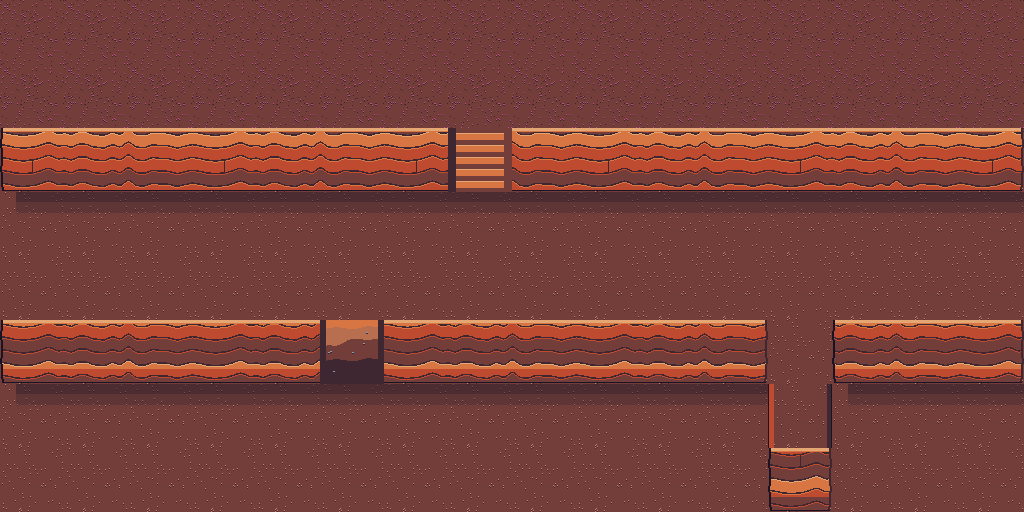
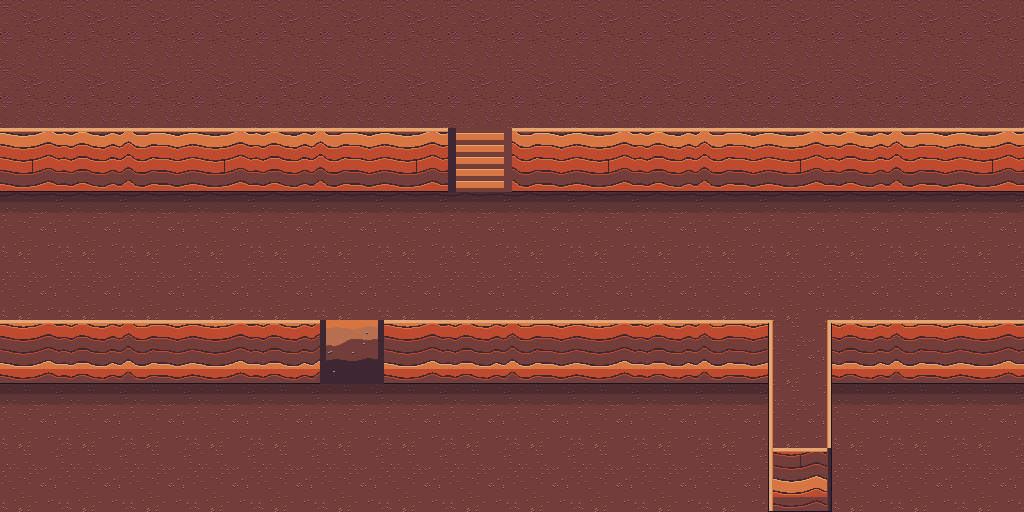
Pareti: raccordi continui tra i gradini (bordo che gira gli angoli, spigoli netti)
- bordo della cima su ogni lato che confina con il basso, anche accanto a una parete
- estremita' delle pareti: continua / rientrante / sporgente, niente pezzi frastagliati
- terreno della cima sotto la parete (niente angoli smussati), ombra al piede degli angoli
- mare a -1: scogliere sulle coste rocciose, spiagge invariate, niente finti gradini nell'entroterra
- cima delle mura a lastre chiare; strade, luoghi, alberi e sottosuolo identici all'approvato

Claude-Session: https://claude.ai/code/session_014ycMSkFAn8ixUvbSfrqtAR

diff --git a/tools/art/forge3d/pareti.py b/tools/art/forge3d/pareti.py
@@ -75,18 +75,20 @@ def _faccia(mat, X, Yf, Hf, S, seed, Yw=None):
     return np.clip(t, 0, n - 1)
 
 
-def tile(mat, k, d, sx=False, dx=False, passaggio=None, col=0, S=64, seed=5, base=None, riga=None):
+def tile(mat, k, d, sx=None, dx=None, passaggio=None, col=0, S=64, seed=5, base=None, riga=None):
     """Una casella di parete RGBA (S x S): riga k (0 = in alto) di una parete alta d caselle.
-    sx/dx: la parete finisce a sinistra/destra. passaggio: None, 'S' (scalini) o 'R' (rampa).
-    base: disegna la base (False se sotto c'e' ancora parete: gradini in diagonale). Default: ultima riga.
-    col: colonna di mondo (sceglie la variante: col % 3)."""
+    sx/dx: com'e' fatta l'estremita' sinistra/destra:
+        None o 'cont' = la parete continua; 'int' = accanto c'e' la cima dell'altopiano (angolo rientrante:
+        il bordo lo disegna la cima); 'est' = angolo sporgente: spigolo netto (contorno + fascia, chiara a
+        sinistra e scura a destra) che continua il bordo laterale dell'altopiano.
+    passaggio: None, 'S' (scalini) o 'R' (rampa). base: contorno in basso (False se sotto c'e' altra parete).
+    col, riga: colonna e riga di mondo (la texture combacia tra caselle vicine)."""
     y, x = np.mgrid[0:S, 0:S]
     X, Yf, Hf = col * S + x, k * S + y, d * S
     ramp = MATERIALI[mat]["ramp"]
     t = _faccia(mat, X, Yf, Hf, S, seed, None if riga is None else riga * S + y)
     pal = np.array([_rgb(c) for c in ramp])
     img = pal[t]
-    alpha = np.full((S, S), 255, np.uint8)
     nz = _campi(mat, S, seed)[0]
     if passaggio == "S":                                       # scalini: alzate scure, pedate chiare, fianchi
         g = S // 5
@@ -100,27 +102,31 @@ def tile(mat, k, d, sx=False, dx=False, passaggio=None, col=0, S=64, seed=5, bas
         for sx_, sy_ in rs.randint(S // 8, S - S // 8, (6, 2)):
             img[sy_, sx_:sx_ + 2] = _rgb("grey"); img[sy_ + 1, sx_:sx_ + 2] = pr[0]
         img[(x < S // 10) | (x >= S - S // 10)] = pr[0]
-    lato = (2 + 4 * nz[:S, 0:1]).astype(int)                    # spigolo frastagliato: si vede il terreno sotto
-    if sx:
-        alpha[x < lato - 2] = 0
-        img[(x >= lato - 2) & (x < lato)] = _rgb("ink")
-    if dx:
-        dentro = x < S - lato
-        img[~dentro] = pal[0]                                  # lato in ombra: luce da sinistra
-        alpha[x >= S - lato + 2] = 0
-    if (k == d - 1 if base is None else base) and passaggio is None:                       # base frastagliata, sassi caduti
-        base = S - 1 - (nz[0:1, :S] * 4).astype(int)
-        alpha[y > base] = 0
-        img[y == base] = _rgb("ink")
+    lw = _spessore(S)
+    if sx == "est":                                            # spigolo sinistro, in luce
+        img[:, 1:lw + 1] = pal[-1]; img[:, lw + 1] = pal[-2]; img[:, 0] = _rgb("ink")
+    if dx == "est":                                            # spigolo destro, in ombra
+        img[:, S - 1 - lw:S - 1] = pal[0]; img[:, S - 2 - lw] = pal[1]; img[:, S - 1] = _rgb("ink")
+    if (k == d - 1 if base is None else base) and passaggio is None:
+        img[S - 1] = _rgb("ink")                               # piede della parete
     out = np.zeros((S, S, 4), np.uint8)
-    out[..., :3] = img; out[..., 3] = alpha
+    out[..., :3] = img; out[..., 3] = 255
     return out
 
 
-def tile_ombra(sx=False, dx=False, S=64):
-    """Ombra a terra sotto la parete: fascia di inchiostro semitrasparente, spostata a destra (luce a sinistra)."""
+def _spessore(S):
+    """Spessore del bordo chiaro (in alto sulle pareti, ai lati della cima): uguale ovunque."""
+    return max(2, S // 21)
+
+
+def tile_ombra(sx=False, dx=False, S=64, angolo=False):
+    """Ombra a terra sotto la parete: fascia di inchiostro semitrasparente, spostata a destra (luce a sinistra).
+    angolo: a destra la parete prosegue una riga piu' in basso (gradino): l'angolo sporgente fa ombra anche
+    nel quarto in alto a destra, dove il terreno della cima smussa l'angolo."""
     y, x = np.mgrid[0:S, 0:S]
     a = np.where(y < S // 6, 110, np.where(y < S // 3, 55, 0))
+    if angolo:
+        a = np.where((S - 1 - x) + y < S * 0.6, 110, a)              # triangolo verso l'angolo in alto a destra
     if sx:
         a = np.where(x < S // 4, 0, a)
     out = np.zeros((S, S, 4), np.uint8)
@@ -128,96 +134,133 @@ def tile_ombra(sx=False, dx=False, S=64):
     return out
 
 
-def facce(alt):
-    """Per ogni casella: (k, d, y del bordo) se e' parete, altrimenti None. alt: array H x W di interi."""
+def _con_materiale(mat, shape):
+    """Vero dove la casella ha un materiale da parete. Senza mat: ovunque."""
+    if mat is None:
+        return np.ones(shape, bool)
+    return np.array([[bool(v) for v in r] for r in mat], bool)
+
+
+def facce(alt, mat=None):
+    """Per ogni casella: (k, d, y del bordo) se e' parete, altrimenti None. alt: array H x W di interi.
+    mat: se c'e', una parete nasce solo sotto una casella con materiale (una spiaggia sul mare, che e' piu'
+    basso di un livello, non diventa scogliera)."""
     alt = np.asarray(alt)
     H, W = alt.shape
+    ok = _con_materiale(mat, alt.shape)
     f = np.full((H, W), None, object)
     for x in range(W):
         for y in range(1, H):
-            d = int(alt[y - 1, x] - alt[y, x])
+            d = int(alt[y - 1, x] - alt[y, x]) if ok[y - 1, x] else 0
             for k in range(max(0, d)):
                 if y + k < H:
                     f[y + k, x] = (k, d, y - 1)
     return f
 
 
-def _vicino(e, y, x):
-    """C'e' parete nella colonna x, nella stessa riga o in quelle accanto? Cosi' un bordo in diagonale
-    diventa una parete a scalini continua invece di blocchetti staccati."""
-    if x < 0 or x >= e.shape[1]:
-        return False
-    return bool(e[max(0, y - 1):y + 2, x].any())
-
-
-def _orli(alt, mat, e, y, x, S, seed):
-    """Caselle alte che NON sono parete: in vista 3/4 un bordo est o ovest non mostra la faccia, solo la
-    cima. Per non vedere pezzi staccati: orlo di roccia sul lato che confina con il basso, e per le mura
-    un camminamento di pietre chiare (altrimenti la cima del muro si confonde con il selciato)."""
+def _cima(alt, mat, e, y, x, S, seed, f=None):
+    """Casella alta che non e' parete: il bordo dell'altopiano. Su ogni lato (sinistra, destra, sopra) che
+    confina con una casella piu' bassa - terreno o parete - disegna contorno + linea chiara, come l'orlo in
+    cima alle pareti: cosi' il bordo gira l'angolo e lega un gradino al successivo. Le mura hanno in piu'
+    il camminamento di pietre chiare su tutta la cima."""
     H, W = alt.shape
     h = alt[y, x]
     m = mat[y][x]
     if h <= 0 or not m:
         return None
-    basso = lambda yy, xx: 0 <= yy < H and 0 <= xx < W and alt[yy, xx] < h and not e[yy, xx]
+    basso = lambda yy, xx: 0 <= yy < H and 0 <= xx < W and alt[yy, xx] < h
     sx, dx, su = basso(y, x - 1), basso(y, x + 1), basso(y - 1, x)
     muro = m == "mura"
-    if not (sx or dx or (muro and su)) and not (muro and (basso(y + 1, x) or e[min(y + 1, H - 1), x])):
+    if not (sx or dx or su or muro):
         return None
-    ramp = MATERIALI[m]["ramp"]
-    pal = np.array([_rgb(c) for c in ramp])
-    yy, xx = np.mgrid[0:S, 0:S]
+    pal = np.array([_rgb(c) for c in MATERIALI[m]["ramp"]])
     out = np.zeros((S, S, 4), np.uint8)
-    if muro:                                                   # camminamento: lastre chiare con fughe
-        t = _faccia(m, x * S + xx, yy + S, 3 * S, S, seed, y * S + yy)
-        out[..., :3] = pal[np.clip(t + 1, 1, len(ramp) - 1)]
+    if muro:                                                   # camminamento: lastre quadrate chiare (cima, non faccia)
+        yy, xx = np.mgrid[0:S, 0:S]
+        q = S // 2
+        X, Y = x * S + xx, y * S + yy
+        tono = 3 + ((X // q) * 7 + (Y // q) * 3) % 2           # due toni chiari, una lastra per quarto di casella
+        out[..., :3] = pal[np.minimum(tono, len(pal) - 1)]
+        out[(X % q == 0) | (Y % q == 0), :3] = pal[1]           # fughe
+        out[((X % q == 1) | (Y % q == 1)) & (X % q != 0) & (Y % q != 0), :3] = pal[-1]   # spigolo in luce
         out[..., 3] = 255
-        if su:
-            out[:2, :, :3] = pal[-1]; out[0, :, :3] = _rgb("ink")
-    w = max(3, S // 10)
-    if sx:                                                     # lato in luce (sinistra)
-        out[:, :w, :3] = pal[2]; out[:, :w, 3] = 255
-        out[:, 0, :3] = _rgb("ink")
-    if dx:                                                     # lato in ombra (destra)
-        out[:, S - w:, :3] = pal[0]; out[:, S - w:, 3] = 255
-        out[:, S - w, :3] = pal[1]
-        out[:, S - 1, :3] = _rgb("ink")
+    lw = _spessore(S)
+    if su:
+        out[1:lw + 1, :, :3] = pal[-1]; out[lw + 1, :, :3] = pal[-2]; out[0, :, :3] = _rgb("ink")
+        out[:lw + 2, :, 3] = 255
+    # accanto c'e' la cima di una parete che comincia in questa riga: l'orlo chiaro gira l'angolo senza
+    # interrompersi (niente pixel di contorno davanti alla linea chiara)
+    gira = lambda xx: f is not None and 0 <= xx < W and f[y, xx] is not None and f[y, xx][0] == 0
+    if sx:
+        out[:, 1:lw + 1, :3] = pal[-1]; out[:, lw + 1, :3] = pal[-2]; out[:, 0, :3] = _rgb("ink")
+        out[:, :lw + 2, 3] = 255
+        if gira(x - 1):
+            out[:lw, 0, :3] = pal[-1]
+    if dx:
+        out[:, S - 1 - lw:S - 1, :3] = pal[-1]; out[:, S - 2 - lw, :3] = pal[-2]; out[:, S - 1, :3] = _rgb("ink")
+        out[:, S - 2 - lw:, 3] = 255
+        if gira(x + 1):
+            out[:lw, S - 1, :3] = pal[-1]
     return out
+
+
+def _estremo(alt, e, y, x, dxx):
+    """Tipo dell'estremita' di una parete verso la colonna x + dxx: vedi tile()."""
+    W = alt.shape[1]
+    xx = x + dxx
+    if xx < 0 or xx >= W or e[y, xx]:
+        return "cont"
+    return "int" if alt[y, xx] > alt[y, x] else "est"
+
+
+def terreno_sotto(ground, alt, mat=None):
+    """Sotto una parete il terreno e' quello della cima (la casella in cima al bordo): la parete lo copre, e
+    il passaggio tra due terreni cade al piede della parete invece di smussare gli angoli dell'altopiano."""
+    g = np.array(ground, copy=True)
+    f = facce(alt, mat)
+    for y, x in zip(*np.nonzero(np.vectorize(lambda v: v is not None)(f))):
+        g[y, x] = g[f[y, x][2], x]
+    return g
 
 
 def disegna(alt, mat, passaggi=None, S=64, seed=5):
     """Strato RGBA (H*S, W*S) con pareti e ombre, da mettere sopra il terreno.
     mat: H x W di nomi di MATERIALI (conta quello della casella in cima al bordo).
     passaggi: H x W di caratteri ('.', 'S', 'R'), letti sulle caselle di parete."""
-    f = facce(alt)
+    f = facce(alt, mat)
     H, W = f.shape
     out = np.zeros((H * S, W * S, 4), np.uint8)
     e_parete = np.vectorize(lambda v: v is not None)(f)
+    alt = np.asarray(alt)
     for y in range(H):
         for x in range(W):
             if f[y, x] is None:
-                orlo = _orli(alt, mat, e_parete, y, x, S, seed)  # cima delle mura e orli laterali
-                if orlo is not None:
-                    out[y * S:(y + 1) * S, x * S:(x + 1) * S] = orlo
-                if y > 0 and e_parete[y - 1, x]:               # ombra sotto la base
-                    sx = x == 0 or not e_parete[y - 1, x - 1]
-                    out[y * S:(y + 1) * S, x * S:(x + 1) * S] = tile_ombra(sx, False, S)
+                cima = _cima(alt, mat, e_parete, y, x, S, seed, f)
+                if cima is not None:
+                    out[y * S:(y + 1) * S, x * S:(x + 1) * S] = cima
+                if y > 0 and e_parete[y - 1, x]:               # ombra al piede della parete
+                    sx = _estremo(alt, e_parete, y - 1, x, -1) == "est"
+                    angolo = x + 1 < W and e_parete[y, x + 1] and not e_parete[y - 1, x + 1]
+                    blk = out[y * S:(y + 1) * S, x * S:(x + 1) * S]
+                    om = tile_ombra(sx, False, S, angolo)
+                    vuoto = blk[..., 3] == 0
+                    blk[vuoto] = om[vuoto]
                 continue
             k, d, yb = f[y, x]
-            sx = not _vicino(e_parete, y, x - 1)               # libero a sinistra (anche in diagonale)
-            dx = not _vicino(e_parete, y, x + 1)
+            sx, dx = _estremo(alt, e_parete, y, x, -1), _estremo(alt, e_parete, y, x, 1)
             p = passaggi[y][x] if passaggi is not None and passaggi[y][x] in "SR" else None
             base = k == d - 1 and not (y + 1 < H and e_parete[y + 1, x])   # sotto c'e' terreno, non altra parete
             out[y * S:(y + 1) * S, x * S:(x + 1) * S] = tile(mat[yb][x], k, d, sx, dx, p, x, S, seed, base, y)
     return out
 
 
-def maschera(alt):
+def maschera(alt, mat=None):
     """Come facce(), ma solo vero/falso e senza cicli: per le mappe grandi (1200 x 1000)."""
     alt = np.asarray(alt)
+    ok = _con_materiale(mat, alt.shape) if mat is None or not isinstance(mat, np.ndarray) else (mat != "")
     out = np.zeros(alt.shape, bool)
     salto = np.zeros(alt.shape, int)
-    salto[1:] = alt[:-1] - alt[1:]                         # quanto si scende entrando nella casella da sopra
+    salto[1:] = np.where(ok[:-1], alt[:-1] - alt[1:], 0)  # quanto si scende entrando nella casella da sopra
     for k in range(int(salto.max()) if salto.size else 0):
         m = salto > k
         out[k:] |= m[:alt.shape[0] - k]

diff --git a/tools/art/build_world.py b/tools/art/build_world.py
@@ -35,7 +35,7 @@ from PIL import Image, ImageDraw, ImageFont
 
 HERE = os.path.dirname(os.path.abspath(__file__))
 sys.path.insert(0, HERE)
-from forge3d.pareti import disegna as disegna_pareti, maschera as maschera_pareti  # noqa: E402
+from forge3d.pareti import disegna as disegna_pareti, maschera as maschera_pareti, terreno_sotto  # noqa: E402
 from forge3d.terrain import ORDER, build_atlas  # noqa: E402
 from forge3d.world import LEVEL, World, fbm  # noqa: E402
 from forge3d.worldrender import render_world, save  # noqa: E402
@@ -351,9 +351,7 @@ def genera(seed):
     riva |= mw & (dmare <= 3)
     g[riva] = L["sand"]
     g[riva & (vl | mc)] = L["arenaria"]
-    scogliera = (vl | mc) & (dmare <= 6)                 # la fascia sul mare sale: la parete cade sull'acqua
-    altezza[scogliera] = np.maximum(altezza[scogliera], 1)
-    mat_par[scogliera] = "arenaria"
+    mat_par[(vl | mc) & land & (dmare <= 2)] = "arenaria"   # coste rocciose: il mare e' un livello sotto (vedi sotto)
 
     # isole
     for rid, cx, cy, r, prof in ISOLE:
@@ -616,7 +614,10 @@ def genera(seed):
     applica_spostati(luoghi, villaggi, None)
     applica_ritocchi(g, land, acqua, luoghi, villaggi)
     # passaggi: scala dove una strada attraversa una parete, rampa ogni ~15 caselle, rampa davanti al passo
-    faccia = maschera_pareti(altezza)
+    # il mare sta un livello sotto la terra: dove la costa ha un materiale (Valle, Marche) diventa scogliera,
+    # le spiagge (senza materiale) restano spiagge
+    altezza[~land & (altezza == 0)] = -1
+    faccia = maschera_pareti(altezza, mat_par)
     pas = np.full((H, W), ".", "<U1")
     # rampa: nasce in cima a un tratto di parete dritto (pareti a sinistra e a destra) e scende per tutta l'altezza
     cima = faccia & ~sposta(faccia, 1, 0)
@@ -670,6 +671,7 @@ def genera(seed):
                           "mat": "stone_light", "moss": False})
     w.objects.sort(key=lambda o: o["y"])
     sotto = genera_sottosuolo(seed, R, land, acqua, centro, rovine_boss, porto, rnd, rng, g)
+    w.ground = terreno_sotto(w.ground, altezza, mat_par)       # dopo tutto il resto: strade, alberi e sottosuolo non cambiano
     applica_spostati(luoghi, villaggi, sotto)
     return w, luoghi, villaggi, sotto
 
@@ -800,6 +802,7 @@ def genera_sottosuolo(seed, R, land, acqua, centro, rovine_boss, porto, rnd, rng
             boss[f"boss_{z_nome}"] = (int(xs_b[i]), int(ys_b[i]))
     ground = np.where(s >= 0, s, L["roccia_viva"])
     alt = (s < 0).astype(int)                            # roccia alta 1: pareti sul lato nord delle gallerie
+    ground = terreno_sotto(ground, alt)
     pas = np.full((H, W), ".", "<U1")
     faccia = maschera_pareti(alt)
     for x, y in ingressi.values():                       # un ingresso non resta mai dietro una parete
@@ -834,7 +837,7 @@ def anteprima(w, luoghi, villaggi, k=1, etichette=True, segni=True):
     bordo[1:, :] |= reg[1:, :] != reg[:-1, :]
     img[bordo & (reg > 0)] = (24, 20, 37)
     if segni:
-        img[maschera_pareti(w.alt)] = (62, 39, 49)        # pareti (gradoni, rupi, scogliere, mura)
+        img[maschera_pareti(w.alt, w.mat_par)] = (62, 39, 49)        # pareti (gradoni, rupi, scogliere, mura)
     for o in w.objects:
         if o["type"] == "tree":
             img[int(o["y"]), int(o["x"])] = (25, 60, 62)
@@ -1023,7 +1026,7 @@ def main():
             save(ritaglio(ws, box_di(x, y), sotto["alt"], mat_sotto, sotto["pas"], atl, oggetti=False),
                  os.path.join(OUT, f"sottosuolo_prova_{nome}.png"))
         # prima / dopo delle pareti (revisione arte 3.2): stesso pezzo senza e con le altezze
-        faccia = maschera_pareti(w.alt)
+        faccia = maschera_pareti(w.alt, w.mat_par)
         mc_i, vl_i = REGIONI.index("marche_crepuscolo"), REGIONI.index("valle_madre")
         sopra_valle = np.zeros((H, W), bool)
         sopra_valle[1:] = w.biome[:-1] == vl_i

diff --git a/tools/art/campioni_pareti.py b/tools/art/campioni_pareti.py
@@ -17,7 +17,7 @@ from PIL import Image
 HERE = os.path.dirname(os.path.abspath(__file__))
 sys.path.insert(0, HERE)
 from forge3d import terrain as T  # noqa: E402
-from forge3d.pareti import disegna  # noqa: E402
+from forge3d.pareti import disegna, terreno_sotto  # noqa: E402
 
 OUT = os.path.join(HERE, "..", "..", "arte", "pareti")
 
@@ -62,8 +62,13 @@ def leggi(forma):
 def scena(mat, terreni, S=64):
     alt, pas = leggi(FORMA)
     ground = np.vectorize(lambda h: T.ORDER.index(terreni[min(h, len(terreni) - 1)]))(alt)
-    base = Image.fromarray(T.compose_ground(ground, S=S))
-    strato = Image.fromarray(disegna(alt, [[mat] * alt.shape[1]] * alt.shape[0], pas, S=S))
+    mats = np.full(alt.shape, mat, object)
+    if mat == "mura":                                   # le mura sono un muro sul bordo, non tutto l'altopiano
+        p = np.pad(alt, 1, mode="edge")
+        bordo = (p[2:, 1:-1] < alt) | (p[1:-1, :-2] < alt) | (p[1:-1, 2:] < alt) | (p[:-2, 1:-1] < alt)
+        mats[~bordo] = ""
+    base = Image.fromarray(T.compose_ground(terreno_sotto(ground, alt, mats), S=S))
+    strato = Image.fromarray(disegna(alt, mats, pas, S=S))
     base.alpha_composite(strato)
     return base
 

diff --git a/arte/revisione_arte.md b/arte/revisione_arte.md
@@ -190,8 +190,9 @@ Legenda: 🔴 alta (rovina la leggibilità o va decisa prima del Blocco C/D) ·
 ### ✅ 3.2 Nessuna altezza: rupi, gradoni, scogliere e mura sono piatti — FATTO (2026-10-14)
 > Parte 1: `forge3d/pareti.py` + tavola `arte/pareti/`. Parte 2: altezze in `build_world.py` e in
 > `world_prova.json` (`altezza`, `parete`, `passaggi`), prima/dopo in `arte/mondo/pareti_prima_dopo_*.png`.
-> Resta: le mura e i bordi nord-sud mostrano solo la cima (vista 3/4); in Godot le pareti come muri
-> arrivano con US-8B12.
+> Raccordi (2026-10-14, dopo due segnalazioni dell'utente): bordo continuo che gira gli angoli, spigoli
+> netti, terreno della cima sotto la parete, mare a -1 per le scogliere, cima delle mura a lastre.
+> In Godot le pareti come muri arrivano con US-8B12.
 
 - **Cosa:** tutto è una texture vista dall'alto. Al "passo tra due rupi" le rupi sono
   strisce di arenaria per terra; i gradoni delle Marche non si vedono; le scogliere sono
